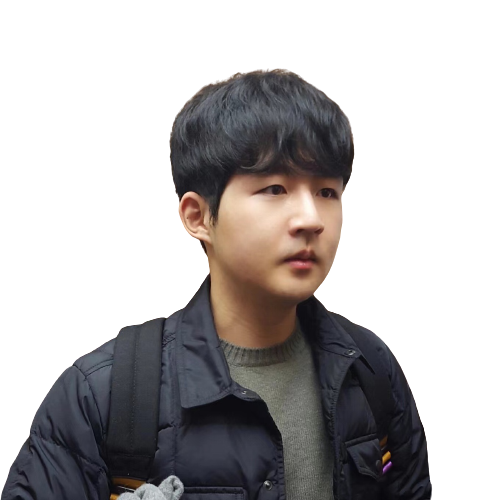
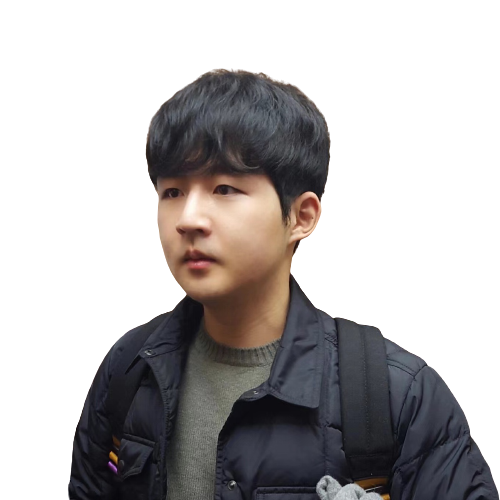
Update profile image, create a new project

diff --git a/index.html b/index.html
@@ -54,7 +54,7 @@
       </div>
       <div class="home__profile">
         <img
-          src="imgs/profile.jpg"
+          src="imgs/profile2.png"
           alt="William's profile photo"
           class="home__avatar"
         />
@@ -220,22 +220,18 @@
       <h3>Projects</h3>
       <div class="work__categories">
         <button class="category__btn selected" data-filter="*">
-          All <span class="category__count">5</span>
+          All <span class="category__count">6</span>
         </button>
         <button class="category__btn" data-filter="front-end">
-          <!-- <i class="fab fa-html5"></i> -->
-          Front-end <span class="category__count">2</span>
+          Front-end <span class="category__count">3</span>
         </button>
         <button class="category__btn" data-filter="mobile">
-          <!-- <i class="fas fa-mobile-alt"></i> -->
           Mobile <span class="category__count">1</span>
         </button>
         <button class="category__btn" data-filter="cloud">
-          <!-- <i class="fab fa-aws"></i> -->
           Cloud <span class="category__count">1</span>
         </button>
         <button class="category__btn" data-filter="machine-learning">
-          <!-- <i class="fab fa-python"></i> -->
           Algorithm <span class="category__count">1</span>
         </button>
       </div>
@@ -319,6 +315,25 @@
           <div class="project__description">
             <h3>Algorithm for optimal decision</h3>
             <span>Help compute whether choosing first is beneficial</span>
+          </div>
+        </a>
+        <a
+          href="https://github.com/Willy-is/mini-shopping-mall"
+          class="project"
+          data-type="front-end"
+          target="blank"
+        >
+          <img
+            class="project__img"
+            src="imgs/projects/mini-shopping-mall.png"
+            alt="Mini mall"
+          />
+          <div class="project__description">
+            <h3>Mini shopping mall</h3>
+            <span
+              >Use JSON to store data and fetch API to dynamically display the
+              items</span
+            >
           </div>
         </a>
       </div>
